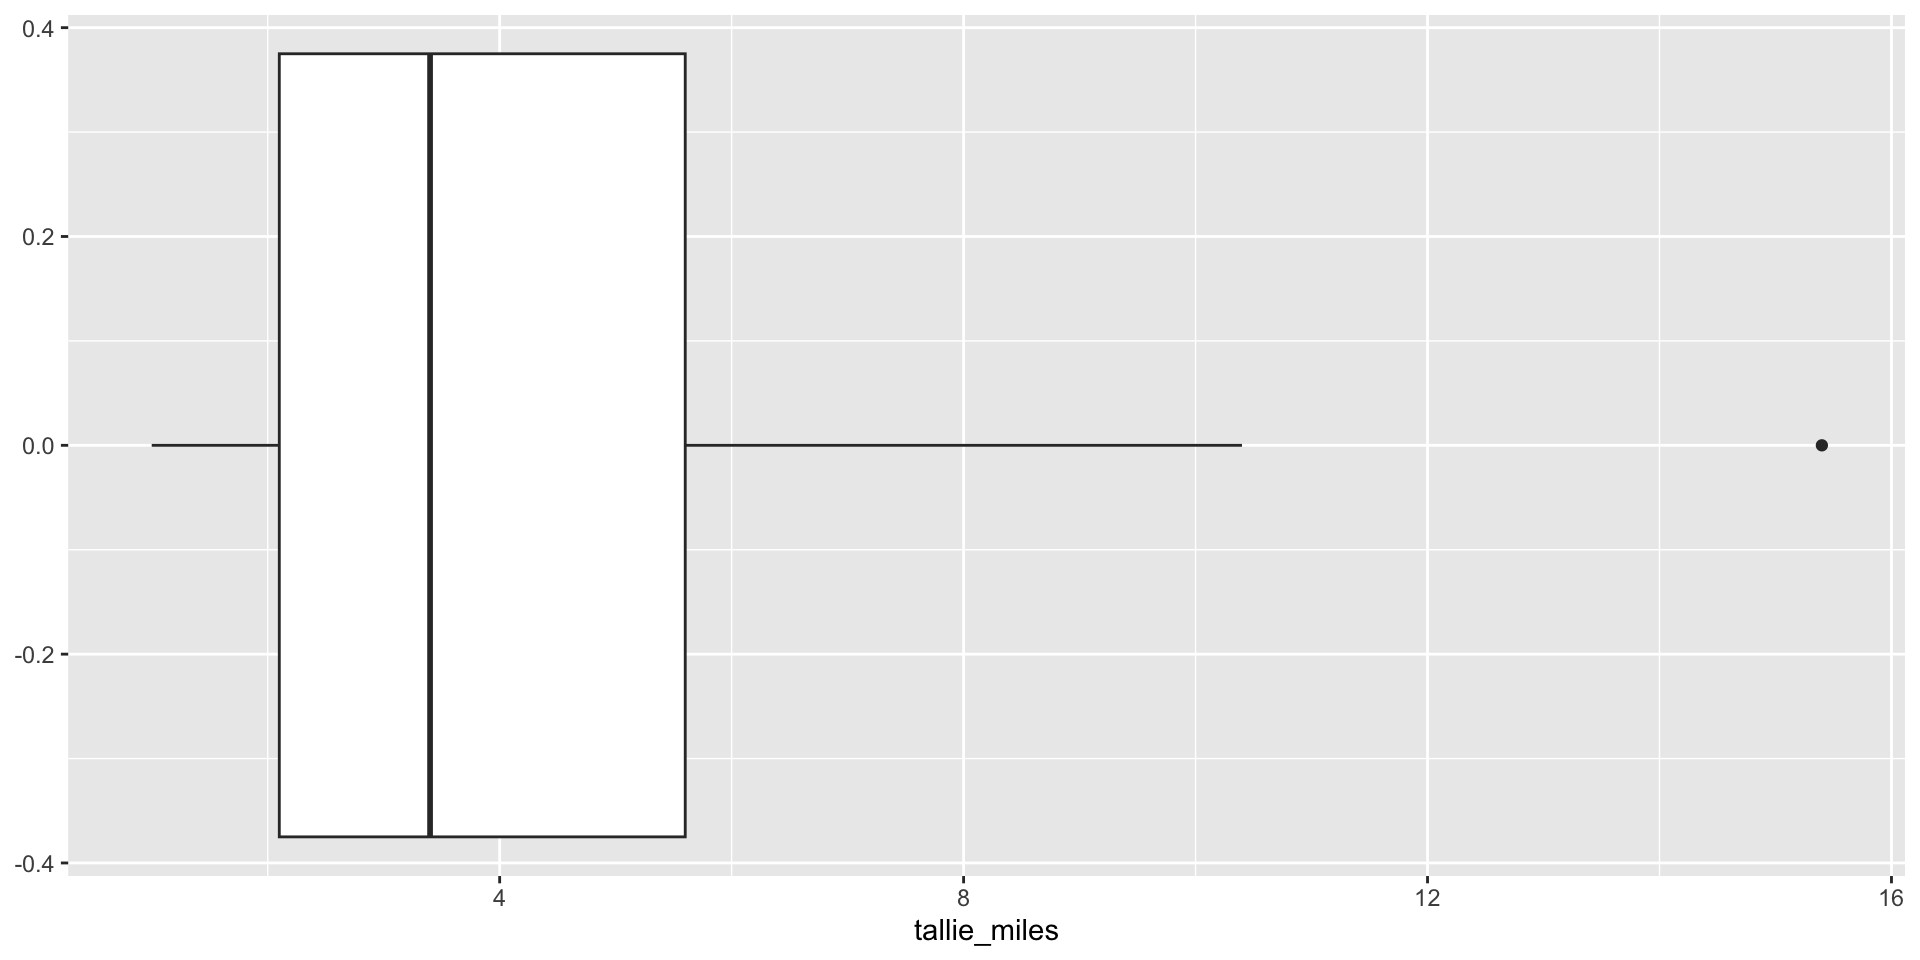
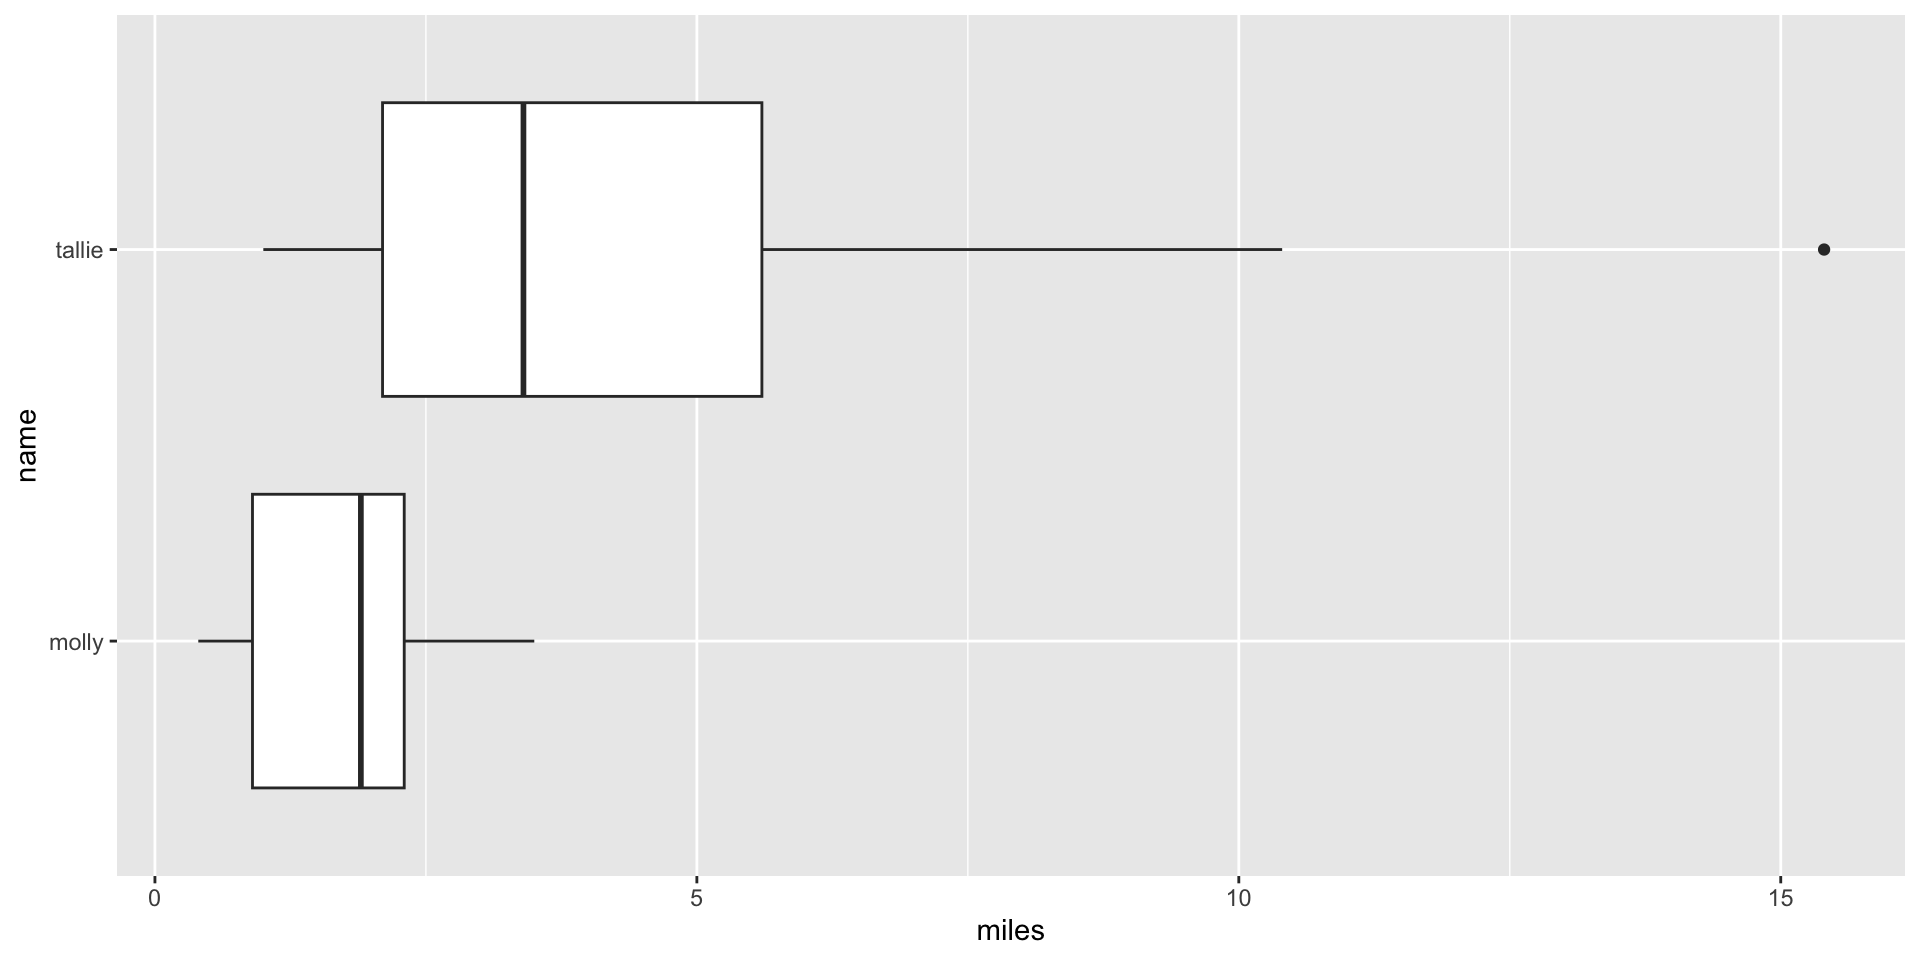
added some notes; updated some examples for day 3

diff --git a/docs/course-materials/slides/day4.2-slides.html b/docs/course-materials/slides/day4.2-slides.html
@@ -541,11 +541,17 @@
 <hr>
 <p><br></p>
 <div class="cell" data-layout-align="center">
-<div class="sourceCode cell-code" id="cb1"><pre class="sourceCode numberSource r number-lines code-with-copy"><code class="sourceCode r"><span id="cb1-1"><a href="#cb1-1"></a>tallie_miles <span class="ot">&lt;-</span> <span class="fu">c</span>(<span class="fl">1.0</span>, <span class="fl">1.2</span>, <span class="fl">1.8</span>, <span class="fl">2.1</span>, <span class="fl">2.4</span>, <span class="fl">2.9</span>, <span class="fl">3.4</span>, <span class="fl">4.7</span>, <span class="fl">5.1</span>, <span class="fl">5.6</span>, <span class="fl">7.8</span>, <span class="fl">10.4</span>, <span class="fl">15.4</span>)</span>
-<span id="cb1-2"><a href="#cb1-2"></a>tallie_miles <span class="ot">&lt;-</span> <span class="fu">data.frame</span>(tallie_miles)</span>
-<span id="cb1-3"><a href="#cb1-3"></a></span>
-<span id="cb1-4"><a href="#cb1-4"></a><span class="fu">ggplot</span>(<span class="at">data =</span> tallie_miles, <span class="fu">aes</span>(<span class="at">x =</span> tallie_miles)) <span class="sc">+</span></span>
-<span id="cb1-5"><a href="#cb1-5"></a>  <span class="fu">geom_boxplot</span>()</span></code><button title="Copy to Clipboard" class="code-copy-button"><i class="bi"></i></button></pre></div>
+<div class="sourceCode cell-code" id="cb1"><pre class="sourceCode numberSource r number-lines code-with-copy"><code class="sourceCode r"><span id="cb1-1"><a href="#cb1-1"></a><span class="co"># create vectors of Tallie &amp; Molly miles logged ----</span></span>
+<span id="cb1-2"><a href="#cb1-2"></a>tallie <span class="ot">&lt;-</span> <span class="fu">c</span>(<span class="fl">1.0</span>, <span class="fl">1.2</span>, <span class="fl">1.8</span>, <span class="fl">2.1</span>, <span class="fl">2.4</span>, <span class="fl">2.9</span>, <span class="fl">3.4</span>, <span class="fl">4.7</span>, <span class="fl">5.1</span>, <span class="fl">5.6</span>, <span class="fl">7.8</span>, <span class="fl">10.4</span>, <span class="fl">15.4</span>)</span>
+<span id="cb1-3"><a href="#cb1-3"></a>molly <span class="ot">&lt;-</span> <span class="fu">c</span>(<span class="fl">0.5</span>, <span class="fl">0.4</span>, <span class="fl">1.1</span>, <span class="fl">1.2</span>, <span class="fl">3.2</span>, <span class="fl">2.1</span>, <span class="fl">3.3</span>, <span class="fl">2.3</span>, <span class="fl">0.7</span>, <span class="fl">0.9</span>, <span class="fl">1.9</span>, <span class="fl">3.5</span>, <span class="fl">1.9</span>)</span>
+<span id="cb1-4"><a href="#cb1-4"></a></span>
+<span id="cb1-5"><a href="#cb1-5"></a><span class="co"># turn vectors into a data frame that can be plotted ----</span></span>
+<span id="cb1-6"><a href="#cb1-6"></a>dog_miles <span class="ot">&lt;-</span> <span class="fu">data.frame</span>(tallie, molly) <span class="sc">|&gt;</span> </span>
+<span id="cb1-7"><a href="#cb1-7"></a>  <span class="fu">pivot_longer</span>(<span class="at">cols =</span> <span class="fu">c</span>(tallie, molly), <span class="at">names_to =</span> <span class="st">"name"</span>, <span class="at">values_to =</span> <span class="st">"miles"</span>)</span>
+<span id="cb1-8"><a href="#cb1-8"></a></span>
+<span id="cb1-9"><a href="#cb1-9"></a><span class="co"># make boxplot of Tallie vs. Molly miles ----</span></span>
+<span id="cb1-10"><a href="#cb1-10"></a><span class="fu">ggplot</span>(<span class="at">data =</span> dog_miles, <span class="fu">aes</span>(<span class="at">x =</span> miles, <span class="at">y =</span> name)) <span class="sc">+</span></span>
+<span id="cb1-11"><a href="#cb1-11"></a>  <span class="fu">geom_boxplot</span>()</span></code><button title="Copy to Clipboard" class="code-copy-button"><i class="bi"></i></button></pre></div>
 
 </div>
 <img data-src="day4.2-slides_files/figure-revealjs/unnamed-chunk-6-1.png" style="width:100.0%" class="r-stretch quarto-figure-center"></section>
@@ -579,7 +585,7 @@
 <h2></h2>
 <p><span class="slide-title">Mean</span></p>
 <hr>
-<p><span class="body-text-m">Average value of sample observations, calculated by summing all observation values and dividing by the number of observations</span></p>
+<p><span class="body-text-m">Average value of sample observations, calculated by summing all observation values and dividing by the number of observations. E.g. <span class="math inline">\(mean\;of\;3, 7, 17 = \frac{3+7+17}{3} = 9\)</span></span></p>
 <p><br></p>
 <p><span class="body-text-l"><strong>Pros:</strong></span></p>
 <div class="body-text-m">
@@ -613,7 +619,7 @@
 <h2></h2>
 <p><span class="slide-title">Median</span></p>
 <hr>
-<p><span class="body-text-m">Middle value when all observations are arranged in order. If you have an even number of values, the median is calculated as the average of the middle two values.</span></p>
+<p><span class="body-text-m">Middle value when all observations are arranged in order. If you have an even number of values, the median is calculated as the average of the middle two values. E.g. <span class="math inline">\(median\;of\;3, 7, 17 = 7\)</span></span></p>
 <p><br></p>
 <p><span class="body-text-l"><strong>Pros:</strong></span></p>
 <div class="body-text-m">

diff --git a/docs/course-materials/slides/day4.1-slides.html b/docs/course-materials/slides/day4.1-slides.html
@@ -565,6 +565,24 @@ x \\
 <p><span class="body-text-xl">Leslie Matrix: Population ecology</span></p>
 <p><br></p>
 <p><span class="body-text-l">A matrix model that accounts for survival / fecundity rates at different life stages for a species.</span></p>
+<aside class="notes">
+<p>The Leslie matrix is one of the most well-known ways to describe the growth of populations (and their projected age distribution), in which a population is:</p>
+<ul>
+<li>closed to migration,</li>
+<li>growing in an unlimited environment,</li>
+<li>and where only one sex, usually the female, is considered.</li>
+</ul>
+<style type="text/css">
+        span.MJX_Assistive_MathML {
+          position:absolute!important;
+          clip: rect(1px, 1px, 1px, 1px);
+          padding: 1px 0 0 0!important;
+          border: 0!important;
+          height: 1px!important;
+          width: 1px!important;
+          overflow: hidden!important;
+          display:block!important;
+      }</style></aside>
 </section>
 <section id="overview" class="slide level2" data-menu-title="overview">
 <h2></h2>
@@ -614,7 +632,39 @@ x \\
 <p><span class="math display">\[F_{t+1}=0.08*L_t\]</span></p>
 </div>
 </section>
-<section id="in-matrix-from" class="slide level2" data-menu-title="Write in matrix form">
+<section id="in-matrix-form1" class="slide level2" data-menu-title="Write in matrix form 1">
+<h2></h2>
+<p><span class="slide-title">How can we write this in matrix form?</span></p>
+<hr>
+<div class="body-text-l">
+<p><span class="math display">\[E_{t+1}=600 * F_t\]</span></p>
+<p><span class="math display">\[L_{t+1} = 0.2*E_t\]</span></p>
+<p><span class="math display">\[F_{t+1}=0.08*L_t\]</span></p>
+</div>
+<aside class="notes">
+<p>The Leslie matrix (L) will be a 3x3 matrix since we have three stages (Eggs, Larvae, Adults).</p>
+<p>Each column represents an age class at time <span class="math inline">\(t\)</span></p>
+<ol type="1">
+<li><p><strong>Fecundity (Top Row):</strong> The third element of the top row is 600 because adult females contribute to the number of eggs in the next generation.</p></li>
+<li><p><strong>Survival Rates (Sub-diagonal):</strong></p></li>
+</ol>
+<ul>
+<li>The first element in the second row (0.2) represents the probability of an egg surviving to become a larva.</li>
+<li>The second element in the third row (0.08) represents the probability of a larva surviving to become an adult female.</li>
+</ul>
+<style type="text/css">
+        span.MJX_Assistive_MathML {
+          position:absolute!important;
+          clip: rect(1px, 1px, 1px, 1px);
+          padding: 1px 0 0 0!important;
+          border: 0!important;
+          height: 1px!important;
+          width: 1px!important;
+          overflow: hidden!important;
+          display:block!important;
+      }</style></aside>
+</section>
+<section id="in-matrix-form2" class="slide level2" data-menu-title="Write in matrix form 2">
 <h2></h2>
 <p><span class="slide-title">How can we write this in matrix form?</span></p>
 <hr>

diff --git a/docs/course-materials/interactive-sessions/interactive-session-4a.html b/docs/course-materials/interactive-sessions/interactive-session-4a.html
@@ -228,7 +228,7 @@ pre > code.sourceCode > span > a:first-child::before { text-decoration: underlin
 <p>For example, let’s say we have 10 values:</p>
 <div class="cell">
 <div class="sourceCode cell-code" id="cb1"><pre class="sourceCode r code-with-copy"><code class="sourceCode r"><span id="cb1-1"><a href="#cb1-1" aria-hidden="true" tabindex="-1"></a><span class="co"># Make a sequence of values from 1 - 10 ----</span></span>
-<span id="cb1-2"><a href="#cb1-2" aria-hidden="true" tabindex="-1"></a>my_values <span class="ot">&lt;-</span> <span class="fu">seq</span>(<span class="at">from =</span> <span class="dv">1</span>, <span class="at">to =</span> <span class="dv">10</span>)</span>
+<span id="cb1-2"><a href="#cb1-2" aria-hidden="true" tabindex="-1"></a>my_values <span class="ot">&lt;-</span> <span class="fu">seq</span>(<span class="at">from =</span> <span class="dv">1</span>, <span class="at">to =</span> <span class="dv">10</span>, <span class="at">by =</span> <span class="dv">1</span>)</span>
 <span id="cb1-3"><a href="#cb1-3" aria-hidden="true" tabindex="-1"></a></span>
 <span id="cb1-4"><a href="#cb1-4" aria-hidden="true" tabindex="-1"></a><span class="co"># Look at it (always) ----</span></span>
 <span id="cb1-5"><a href="#cb1-5" aria-hidden="true" tabindex="-1"></a>my_values</span></code><button title="Copy to Clipboard" class="code-copy-button"><i class="bi"></i></button></pre></div>
